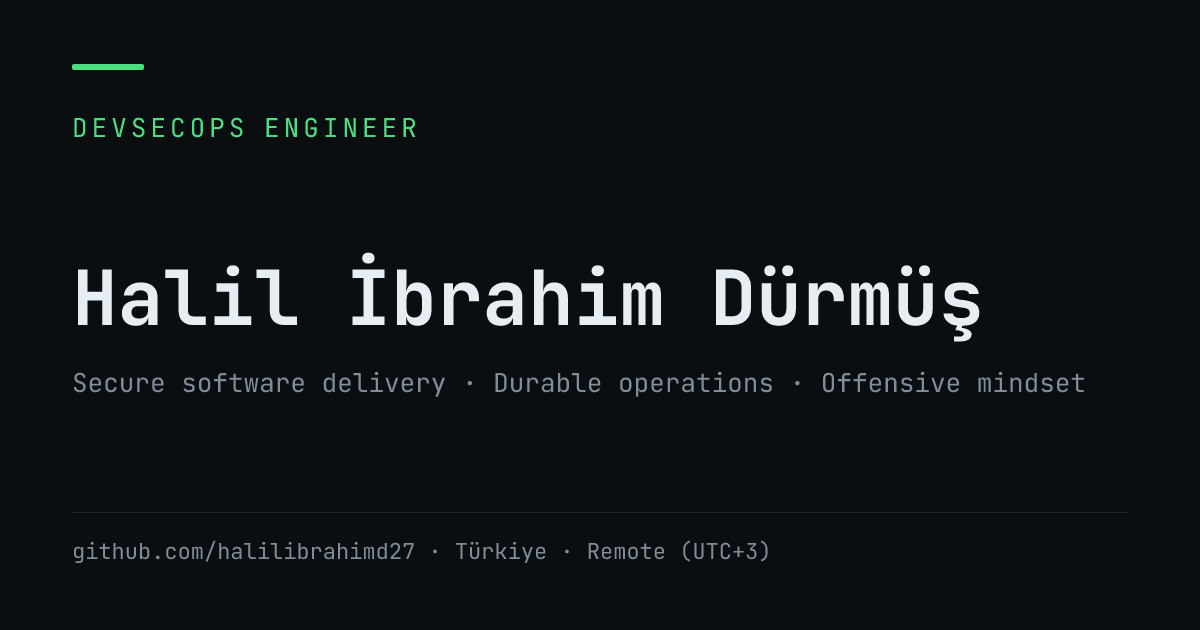
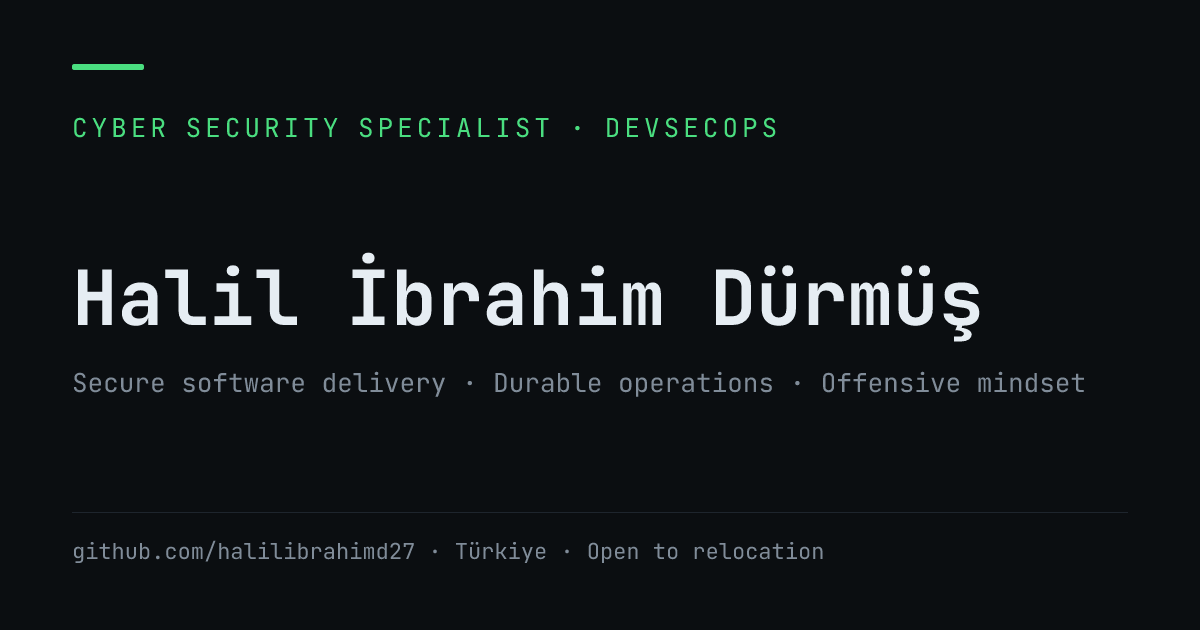
Yeni rol: İnönü DDO siber güvenlik uzmanı; CV indirmeyi kaldır, domainscope'u öne çıkar
- Deneyim: İnönü Üniversitesi DDO'da Cyber Security Specialist (Eki 2026 –)
  eklendi; Ayssoft Eki 2026'da kapandı. Hero ünvanı, meta, Hakkımda ve
  konumlandırma metni CV ile hizalandı; "Şu an" kartında Şirket → Kurum.
- CV PDF'i ve indirme butonları kaldırıldı: dosya telefon numarası içeriyor
  ve public/ altındaki her dosya link verilmese de erişilebilir.
- Projeler: goad-light-vmware-windows gizlendi, yerine domainscope geldi.
- OG görselleri yeniden üretildi; satori ≥0.4x content-box davranışı alt
  kimlik satırını kırpıyordu, kök kart border-box yapıldı.
- Maddesi olmayan deneyimde boş <ul> basılmıyor.

Changed region(s): [[0.0617, 0.181, 0.4625, 0.2413], [0.4933, 0.8444, 0.6783, 0.9048], [0.4933, 0.181, 0.6475, 0.2111]]

diff --git a/src/data/content.tr.ts b/src/data/content.tr.ts
@@ -14,10 +14,10 @@ export const tr = {
   meta: {
     locale: 'tr',
     htmlLang: 'tr-TR',
-    title: 'Halil İbrahim Dürmüş — DevSecOps Engineer',
+    title: 'Halil İbrahim Dürmüş — Cyber Security Specialist · DevSecOps',
     description:
-      'DevSecOps Engineer. Proxmox ve Docker altyapıları, GitOps tabanlı CI/CD hatları, pre-commit’ten runtime’a uzanan savunma katmanları.',
-    ogImageAlt: 'Halil İbrahim Dürmüş — DevSecOps Engineer',
+      'Cyber Security Specialist · DevSecOps. Proxmox ve Docker altyapıları, GitOps tabanlı CI/CD hatları, pre-commit’ten runtime’a uzanan savunma katmanları.',
+    ogImageAlt: 'Halil İbrahim Dürmüş — Cyber Security Specialist · DevSecOps',
     ogTagline: 'Güvenli yazılım teslimi · Dayanıklı operasyon · Ofansif bakış',
     usesTitle: 'Kullandıklarım — Halil İbrahim Dürmüş',
     usesDescription: 'Günlük işimde kullandığım altyapı, teslim hattı ve güvenlik araçları.',
@@ -54,26 +54,25 @@ export const tr = {
 
   hero: {
     name: 'Halil İbrahim Dürmüş',
-    role: 'DevSecOps Engineer',
+    role: 'Cyber Security Specialist · DevSecOps',
     positioning:
-      'Production ölçekli Proxmox ve Docker altyapılarını işleten, pre-commit’ten runtime’a uzanan savunma katmanlarını ve GitOps tabanlı CI/CD hatlarını uçtan uca sahiplenen bir mühendisim. Odağım güvenli yazılım teslimi (SAST/SCA/SBOM, imzalı imaj), dayanıklı operasyon (SLO, suçlusuz postmortem, runbook hijyeni) ve ofansif bakış açısı.',
+      'Production ölçekli Proxmox ve Docker altyapılarını işletmiş, pre-commit’ten runtime’a uzanan savunma katmanlarını ve GitOps tabanlı CI/CD hatlarını uçtan uca sahiplenmiş bir mühendisim. Odağım güvenli yazılım teslimi (SAST/SCA/SBOM, imzalı imaj), dayanıklı operasyon (SLO, suçlusuz postmortem, runbook hijyeni) ve ofansif bakış açısı.',
     locationLabel: 'Konum',
-    location: 'Türkiye · Remote (UTC+3)',
+    location: 'Türkiye · Taşınmaya açık',
     nowHeading: 'Şu an',
     roleLabel: 'Rol',
-    companyLabel: 'Şirket',
+    companyLabel: 'Kurum',
     prepLabel: 'Hazırlık',
     ctaGithub: 'GitHub',
     ctaLinkedin: 'LinkedIn',
-    ctaCv: 'CV indir',
   },
 
   about: {
     heading: 'Hakkımda',
     paragraphs: [
-      'Ayssoft’ta şirketin tek DevOps mühendisiyim: commit’ten production’a kadar bütün teslim zinciri bende. Çoklu Proxmox node üzerinde bugüne kadar 100’den fazla sanal makine kurdum ve işletiyorum; 90’dan fazla container tabanlı repository GitHub Actions ile build edilip dağıtılıyor.',
+      'İnönü Üniversitesi Dijital Dönüşüm Ofisi’nde siber güvenlik uzmanıyım. Öncesinde Ayssoft’ta şirketin tek DevOps mühendisiydim ve commit’ten production’a kadar bütün teslim zinciri bendeydi: çoklu Proxmox node üzerinde 100’den fazla sanal makine kurup işlettim, 90’dan fazla container tabanlı repository GitHub Actions ile build edilip dağıtıldı.',
       'Altyapıya full-stack Java ve React geliştiriciliğinden geldim. Bu, nasıl çalıştığımı belirliyor: geliştirme ekiplerinin etrafından dolaşacağı değil, benimseyeceği sertleştirme, secret yönetimi ve gözlemlenebilirlik kuruyorum.',
-      'Üretim olaylarına müdahaleyi ben yürütüyorum — Proxmox LVM thin-pool tükenmesi, Redis AOF bozulması, MySQL 8 fiziksel restore, Kafka offset kurtarma, çok kiracılı Docker stack arızaları. Şu an OSCP+ ve CKS’e hazırlanıyorum.',
+      'Ayssoft’ta üretim olaylarına müdahaleyi ben yürüttüm — Proxmox LVM thin-pool tükenmesi, Redis AOF bozulması, MySQL 8 fiziksel restore, Kafka offset kurtarma, çok kiracılı Docker stack arızaları. Şu an OSCP+ ve CKS’e hazırlanıyorum.',
     ],
     languagesLabel: 'Diller',
     languages: ['Türkçe — ana dil', 'İngilizce — CEFR B1–B2'],
@@ -82,6 +81,11 @@ export const tr = {
   experience: {
     heading: 'Deneyim',
     items: {
+      'inonu-security': {
+        role: 'Cyber Security Specialist',
+        summary: 'Ofise bu kez doğrudan siber güvenliğe ayrılmış bir rolle geri dönüş.',
+        bullets: [],
+      },
       ayssoft: {
         role: 'DevSecOps Engineer',
         summary: 'Şirketin tek DevOps mühendisi; commit’ten production’a teslim zincirinin sahibi.',
@@ -167,6 +171,10 @@ export const tr = {
       'wakapi-admin': {
         tagline:
           'Self-hosted Wakapi stack’i ve özel Flask admin paneli. Realtime aktif kullanıcılar, domain etiket sistemi, AI editör tespiti (Cursor/Copilot/Claude Code/Codeium), PDF rapor, takım liderlik tablosu; Prometheus + Grafana ile.',
+      },
+      domainscope: {
+        tagline:
+          'Tamamen tarayıcıda çalışan açık kaynak SSL & DNS araç seti. Bir domain’in alt alan adlarını birkaç kaynaktan toplar, Cloudflare arkasındaki host’ları ayırır ve cevapları kendi sunucu envanterinizle eşleştirip sertifikanın tam olarak hangi sunuculara kurulacağını gösterir. Global DNS, toplu çözümleme, IP intel, domain sağlığı ve Python origin-scan CLI.',
       },
       'goad-light-vmware-windows': {
         tagline:
@@ -275,7 +283,6 @@ export const tr = {
     emailPending: 'Yakında eklenecek',
     githubLabel: 'GitHub',
     linkedinLabel: 'LinkedIn',
-    cvLabel: 'CV (PDF)',
   },
 
   uses: {

diff --git a/src/data/content.en.ts b/src/data/content.en.ts
@@ -13,10 +13,10 @@ export const en = {
   meta: {
     locale: 'en',
     htmlLang: 'en-GB',
-    title: 'Halil İbrahim Dürmüş — DevSecOps Engineer',
+    title: 'Halil İbrahim Dürmüş — Cyber Security Specialist · DevSecOps',
     description:
-      'DevSecOps Engineer. Proxmox and Docker infrastructure, GitOps-based CI/CD pipelines, defence layers that reach from pre-commit to runtime.',
-    ogImageAlt: 'Halil İbrahim Dürmüş — DevSecOps Engineer',
+      'Cyber Security Specialist · DevSecOps. Proxmox and Docker infrastructure, GitOps-based CI/CD pipelines, defence layers that reach from pre-commit to runtime.',
+    ogImageAlt: 'Halil İbrahim Dürmüş — Cyber Security Specialist · DevSecOps',
     ogTagline: 'Secure software delivery · Durable operations · Offensive mindset',
     usesTitle: 'Uses — Halil İbrahim Dürmüş',
     usesDescription:
@@ -54,26 +54,25 @@ export const en = {
 
   hero: {
     name: 'Halil İbrahim Dürmüş',
-    role: 'DevSecOps Engineer',
+    role: 'Cyber Security Specialist · DevSecOps',
     positioning:
-      'I run production-scale Proxmox and Docker infrastructure, and I own the defence layers that reach from pre-commit to runtime along with the GitOps-based CI/CD pipelines that carry them. My focus is secure software delivery (SAST/SCA/SBOM, signed images), durable operations (SLOs, blameless postmortems, runbook hygiene) and an offensive mindset.',
+      'I have run production-scale Proxmox and Docker infrastructure and owned, end to end, the defence layers that reach from pre-commit to runtime along with the GitOps-based CI/CD pipelines that carry them. My focus is secure software delivery (SAST/SCA/SBOM, signed images), durable operations (SLOs, blameless postmortems, runbook hygiene) and an offensive mindset.',
     locationLabel: 'Location',
-    location: 'Türkiye · Remote (UTC+3)',
+    location: 'Türkiye · Open to relocation',
     nowHeading: 'Now',
     roleLabel: 'Role',
-    companyLabel: 'Company',
+    companyLabel: 'Organisation',
     prepLabel: 'In preparation',
     ctaGithub: 'GitHub',
     ctaLinkedin: 'LinkedIn',
-    ctaCv: 'Download CV',
   },
 
   about: {
     heading: 'About',
     paragraphs: [
-      'At Ayssoft I am the company’s only DevOps engineer: the entire delivery chain from commit to production is mine. I have provisioned and now operate more than 100 virtual machines across multiple Proxmox nodes, and over 90 container-based repositories are built and deployed with GitHub Actions.',
+      'I am a cyber security specialist at İnönü University’s Digital Transformation Office. Before that I was Ayssoft’s only DevOps engineer and owned the entire delivery chain from commit to production: I provisioned and operated more than 100 virtual machines across multiple Proxmox nodes, and over 90 container-based repositories were built and deployed with GitHub Actions.',
       'I came to infrastructure from full-stack Java and React development, and that shapes how I work: I build hardening, secret management and observability that development teams adopt rather than route around.',
-      'I lead production incident response — Proxmox LVM thin-pool exhaustion, Redis AOF corruption, MySQL 8 physical restores, Kafka offset recovery, multi-tenant Docker stack failures. I am currently preparing for OSCP+ and CKS.',
+      'I led Ayssoft’s production incident response — Proxmox LVM thin-pool exhaustion, Redis AOF corruption, MySQL 8 physical restores, Kafka offset recovery, multi-tenant Docker stack failures. I am currently preparing for OSCP+ and CKS.',
     ],
     languagesLabel: 'Languages',
     languages: ['Turkish — native', 'English — CEFR B1–B2'],
@@ -82,6 +81,11 @@ export const en = {
   experience: {
     heading: 'Experience',
     items: {
+      'inonu-security': {
+        role: 'Cyber Security Specialist',
+        summary: 'Rejoined the office in a dedicated cyber security role.',
+        bullets: [],
+      },
       ayssoft: {
         role: 'DevSecOps Engineer',
         summary:
@@ -169,6 +173,10 @@ export const en = {
       'wakapi-admin': {
         tagline:
           'Self-hosted Wakapi stack with a custom Flask admin panel. Real-time active users, a domain tag system, AI editor detection (Cursor/Copilot/Claude Code/Codeium), PDF reports and a team leaderboard; Prometheus + Grafana included.',
+      },
+      domainscope: {
+        tagline:
+          'Open-source SSL & DNS toolkit that runs entirely in the browser. Collects a domain’s subdomains from several sources, flags hosts behind Cloudflare and matches the answers against your own server inventory to show exactly which servers a certificate must be installed on. Global DNS, bulk resolve, IP intel, domain health and a Python origin-scan CLI.',
       },
       'goad-light-vmware-windows': {
         tagline:
@@ -277,7 +285,6 @@ export const en = {
     emailPending: 'Coming soon',
     githubLabel: 'GitHub',
     linkedinLabel: 'LinkedIn',
-    cvLabel: 'CV (PDF)',
   },
 
   uses: {

diff --git a/src/data/site.ts b/src/data/site.ts
@@ -1,6 +1,3 @@
-import { existsSync } from 'node:fs';
-import { join } from 'node:path';
-
 /**
  * Kimlik ve site geneli sabitler.
  * Buradaki değerler her iki dilde de aynıdır (isim, link, dosya yolu).
@@ -17,15 +14,11 @@ export const EMAIL = 's.ibrahimdrms@gmail.com';
 
 export const isEmailConfigured = EMAIL.trim().length > 0;
 
-/** CV dosya adı — public/cv/ altına koyduğunuzda CTA otomatik görünür. */
-export const CV_FILENAME = 'HALIL_IBRAHIM_DURMUS_CV.pdf';
-
-/**
- * CV linki build sırasında dosya sistemi kontrolü ile belirlenir.
- * Dosya yoksa hero ve iletişim bölümündeki "CV indir" butonu hiç render
- * edilmez — kırık link çıkmaz.
+/*
+ * CV bilerek sitede YOK: PDF telefon numarası içeriyor ve public/ altındaki
+ * her dosya, hiçbir yerden link verilmese bile herkese açık bir URL'dir.
+ * İletişim e-posta ve LinkedIn üzerinden.
  */
-export const hasCv = existsSync(join(process.cwd(), 'public', 'cv', CV_FILENAME));
 
 export const site = {
   name: 'Halil İbrahim Dürmüş',
@@ -42,7 +35,6 @@ export const site = {
     handle: 'halil-ibrahim-durmus',
     url: 'https://www.linkedin.com/in/halil-ibrahim-durmus',
   },
-  cvPath: `cv/${CV_FILENAME}`,
   /** Tema rengi ve accent — CSS token'ları ile aynı olmalı. */
   themeColorDark: '#0B0E11',
   themeColorLight: '#FBFCFD',

diff --git a/src/data/projects.ts b/src/data/projects.ts
@@ -81,12 +81,13 @@ export const projects = [
     updated: '2026-06-11',
   },
   {
-    id: 'goad-light-vmware-windows',
-    repo: 'halilibrahimd27/goad-light-vmware-windows',
-    tech: ['PowerShell', 'Active Directory', 'VMware', 'Red team'],
+    id: 'domainscope',
+    repo: 'halilibrahimd27/domainscope',
+    tech: ['JavaScript', 'DNS / DoH', 'SSL / TLS', 'Python CLI'],
     tier: 'featured',
-    stars: 1,
-    updated: '2026-09-12',
+    homepage: 'https://halilibrahimd27.github.io/domainscope/',
+    stars: 0,
+    updated: '2026-10-09',
   },
 
   /* ─── Diğer projeler (kompakt liste) ─────────────────────────────────── */
@@ -147,6 +148,14 @@ export const projects = [
     tier: 'hidden',
     stars: 0,
     updated: '2025-12-24',
+  },
+  {
+    id: 'goad-light-vmware-windows',
+    repo: 'halilibrahimd27/goad-light-vmware-windows',
+    tech: ['PowerShell', 'Active Directory', 'VMware', 'Red team'],
+    tier: 'hidden',
+    stars: 1,
+    updated: '2026-09-12',
   },
 ] as const satisfies readonly ProjectFacts[];
 

diff --git a/src/data/types.ts b/src/data/types.ts
@@ -144,14 +144,13 @@ export interface Content<
     readonly positioning: string;
     readonly locationLabel: string;
     readonly location: string;
-    /** Hero'nun sağındaki "Şu an" kartı — değerler timeline/CV'den türer. */
+    /** Hero'nun sağındaki "Şu an" kartı — değerler timeline'dan türer. */
     readonly nowHeading: string;
     readonly roleLabel: string;
     readonly companyLabel: string;
     readonly prepLabel: string;
     readonly ctaGithub: string;
     readonly ctaLinkedin: string;
-    readonly ctaCv: string;
   };
 
   readonly about: {
@@ -206,7 +205,6 @@ export interface Content<
     readonly emailPending: string;
     readonly githubLabel: string;
     readonly linkedinLabel: string;
-    readonly cvLabel: string;
   };
 
   readonly uses: {

diff --git a/src/data/timeline.ts b/src/data/timeline.ts
@@ -10,10 +10,17 @@ import type { EducationFacts, ExperienceFacts, VolunteeringStep } from './types'
  */
 export const experience = [
   {
+    id: 'inonu-security',
+    org: 'İnönü Üniversitesi · Dijital Dönüşüm Ofisi',
+    start: '2026-10',
+    end: null,
+    location: 'Malatya, Türkiye',
+  },
+  {
     id: 'ayssoft',
     org: 'Ayssoft Bilgi Teknolojileri',
     start: '2025-05',
-    end: null,
+    end: '2026-10',
     location: 'Malatya, Türkiye',
   },
   {

diff --git a/scripts/og.ts b/scripts/og.ts
@@ -94,6 +94,9 @@ function card(name: string, role: string, tagline: string, footer: string): Node
     {
       width: 1200,
       height: 630,
+      /* satori ≥0.4x padding'i boyuta EKLİYOR (content-box): kart 1344×758
+         çiziliyor, 1200×630'a kırpılınca alt kimlik satırı kayboluyordu. */
+      boxSizing: 'border-box',
       display: 'flex',
       flexDirection: 'column',
       justifyContent: 'space-between',

diff --git a/README.md b/README.md
@@ -1,6 +1,6 @@
 <div align="center">
 
-<img src="public/og/og-tr.png" alt="Halil İbrahim Dürmüş — DevSecOps Engineer" width="820">
+<img src="public/og/og-tr.png" alt="Halil İbrahim Dürmüş — Cyber Security Specialist · DevSecOps" width="820">
 
 ### [halilibrahimd27.github.io](https://halilibrahimd27.github.io/)
 
